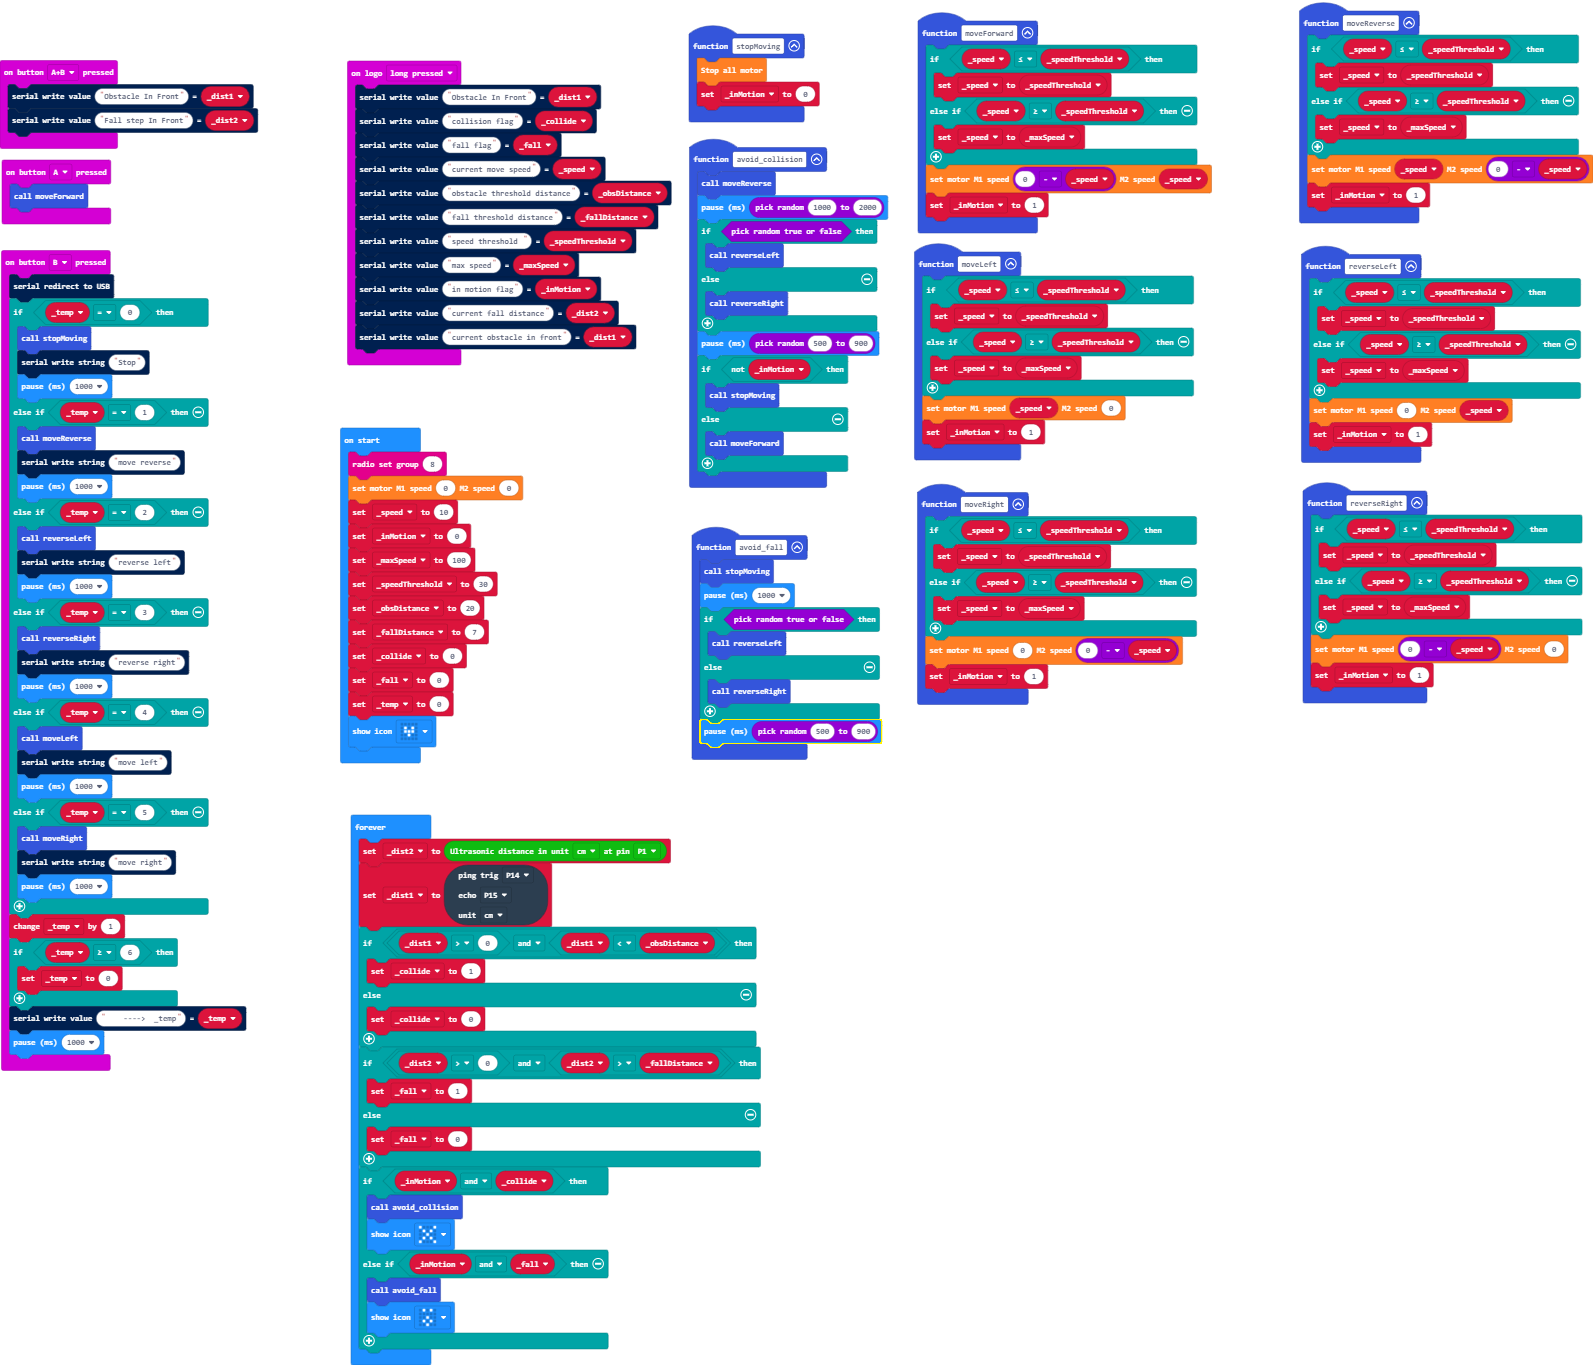
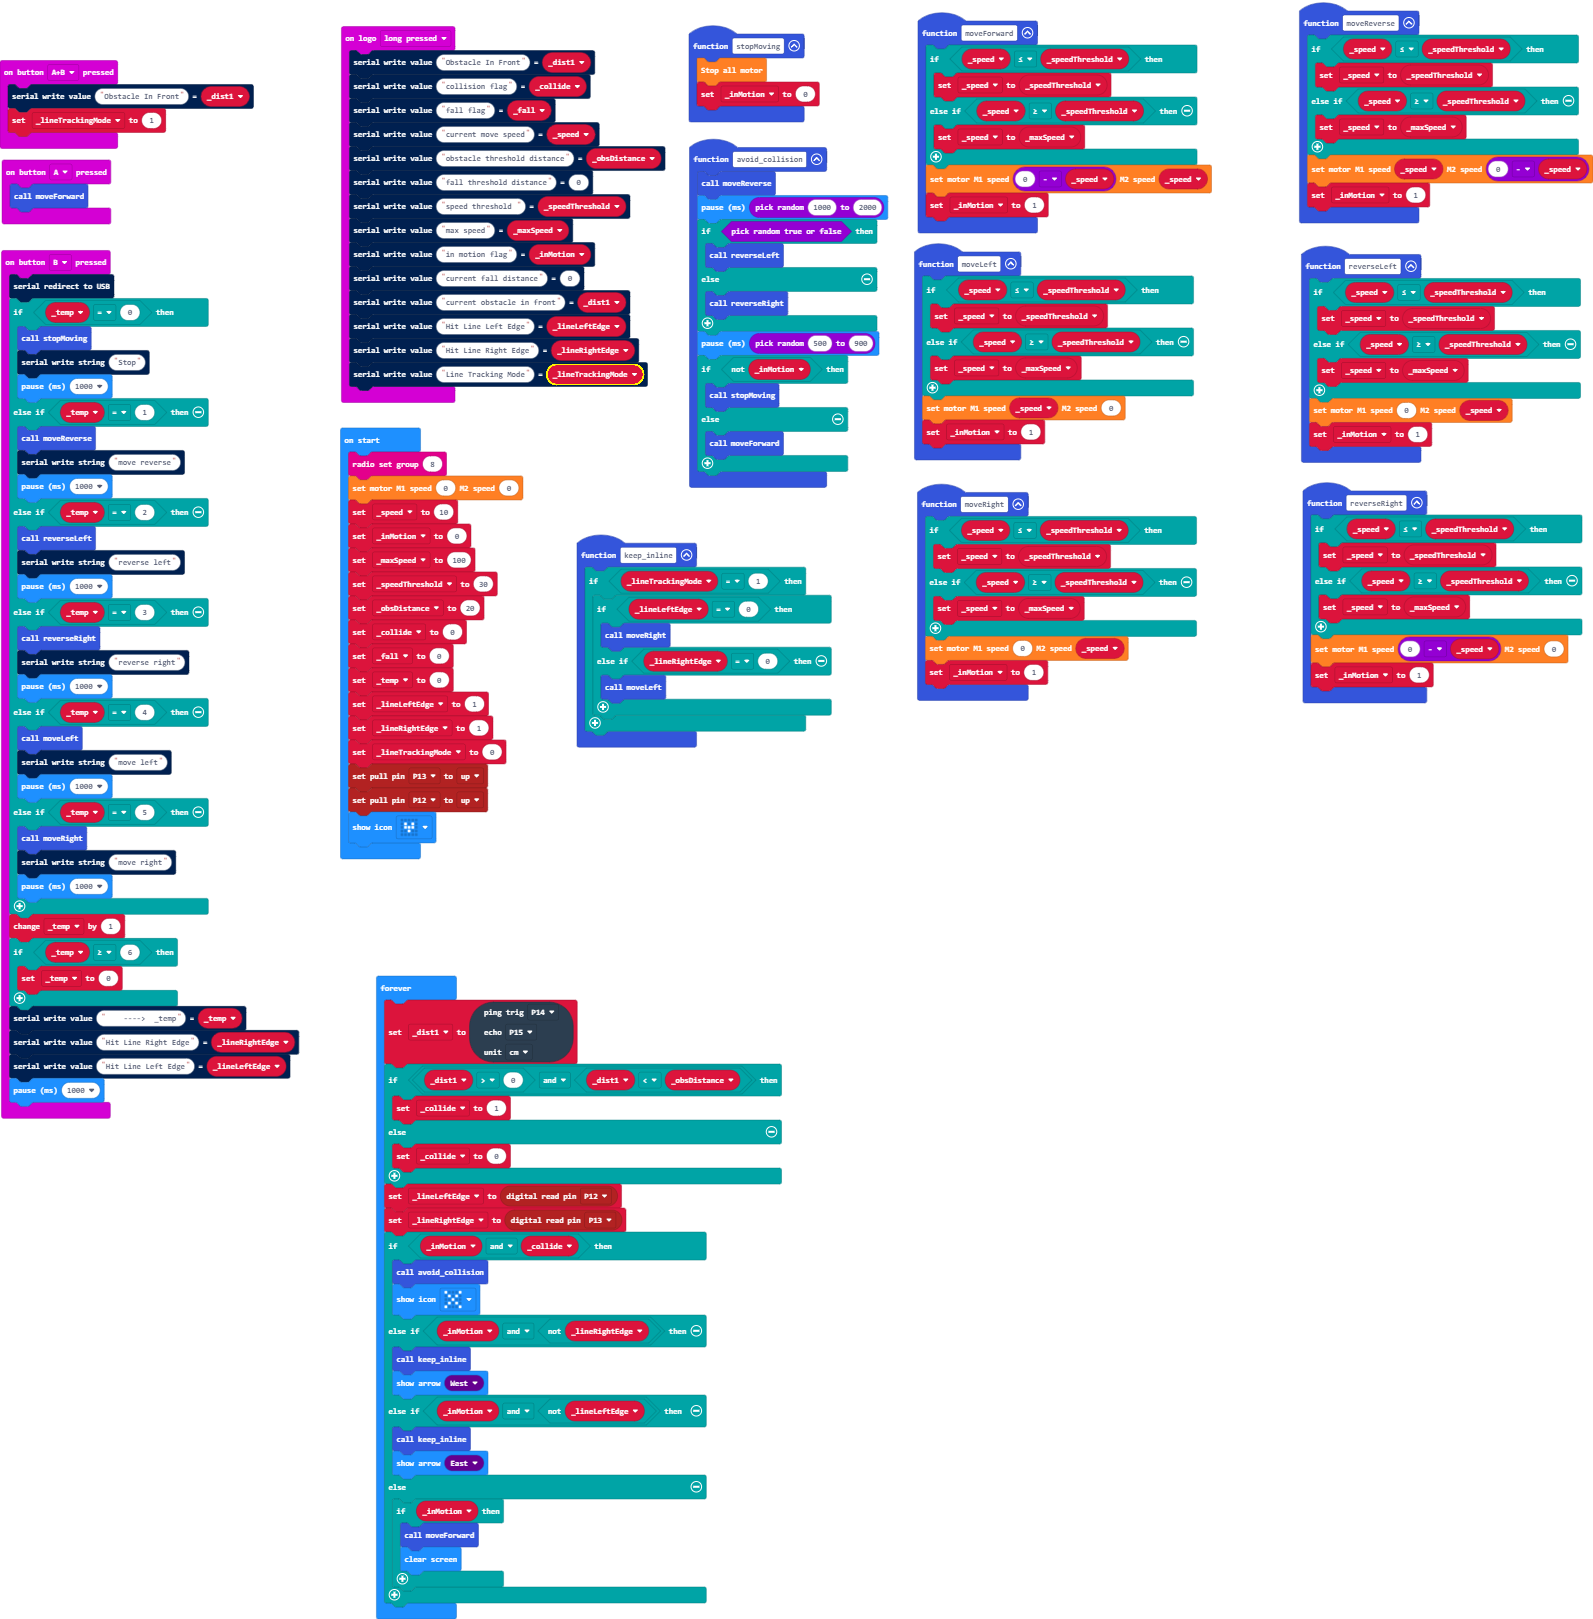
Update main.blocks, main.ts

diff --git a/main.ts b/main.ts
@@ -13,7 +13,7 @@ function moveRight () {
     } else if (_speed >= _speedThreshold) {
         _speed = _maxSpeed
     }
-    wuKong.setAllMotor(0, 0 - _speed)
+    wuKong.setAllMotor(0, _speed)
     _inMotion = 1
 }
 function moveForward () {
@@ -46,12 +46,15 @@ input.onLogoEvent(TouchButtonEvent.LongPressed, function () {
     serial.writeValue("fall flag", _fall)
     serial.writeValue("current move speed", _speed)
     serial.writeValue("obstacle threshold distance", _obsDistance)
-    serial.writeValue("fall threshold distance", _fallDistance)
+    serial.writeValue("fall threshold distance", 0)
     serial.writeValue("speed threshold ", _speedThreshold)
     serial.writeValue("max speed", _maxSpeed)
     serial.writeValue("in motion flag", _inMotion)
-    serial.writeValue("current fall distance", _dist2)
+    serial.writeValue("current fall distance", 0)
     serial.writeValue("current obstacle in front", _dist1)
+    serial.writeValue("Hit Line Left Edge", _lineLeftEdge)
+    serial.writeValue("Hit Line Right Edge", _lineRightEdge)
+    serial.writeValue("Line Tracking Mode", _lineTrackingMode)
 })
 input.onButtonPressed(Button.A, function () {
     moveForward()
@@ -71,7 +74,7 @@ function reverseLeft () {
 }
 input.onButtonPressed(Button.AB, function () {
     serial.writeValue("Obstacle In Front", _dist1)
-    serial.writeValue("Fall step In Front", _dist2)
+    _lineTrackingMode = 1
 })
 input.onButtonPressed(Button.B, function () {
     serial.redirectToUSB()
@@ -105,6 +108,8 @@ input.onButtonPressed(Button.B, function () {
         _temp = 0
     }
     serial.writeValue("    ---->  _temp", _temp)
+    serial.writeValue("Hit Line Right Edge", _lineRightEdge)
+    serial.writeValue("Hit Line Left Edge", _lineLeftEdge)
     basic.pause(1000)
 })
 function reverseRight () {
@@ -125,22 +130,22 @@ function moveLeft () {
     wuKong.setAllMotor(_speed, 0)
     _inMotion = 1
 }
-function avoid_fall () {
-    stopMoving()
-    basic.pause(1000)
-    if (Math.randomBoolean()) {
-        reverseLeft()
-    } else {
-        reverseRight()
+function keep_inline () {
+    if (_lineTrackingMode == 1) {
+        if (_lineLeftEdge == 0) {
+            moveRight()
+        } else if (_lineRightEdge == 0) {
+            moveLeft()
+        }
     }
-    basic.pause(randint(500, 900))
 }
-let _dist2 = 0
 let _dist1 = 0
+let _lineTrackingMode = 0
+let _lineRightEdge = 0
+let _lineLeftEdge = 0
 let _temp = 0
 let _fall = 0
 let _collide = 0
-let _fallDistance = 0
 let _obsDistance = 0
 let _speedThreshold = 0
 let _maxSpeed = 0
@@ -153,13 +158,16 @@ _inMotion = 0
 _maxSpeed = 100
 _speedThreshold = 30
 _obsDistance = 20
-_fallDistance = 7
 _collide = 0
 _fall = 0
 _temp = 0
+_lineLeftEdge = 1
+_lineRightEdge = 1
+_lineTrackingMode = 0
+pins.setPull(DigitalPin.P13, PinPullMode.PullUp)
+pins.setPull(DigitalPin.P12, PinPullMode.PullUp)
 basic.showIcon(IconNames.SmallHeart)
 basic.forever(function () {
-    _dist2 = sonarbit.sonarbit_distance(Distance_Unit.Distance_Unit_cm, DigitalPin.P1)
     _dist1 = sonar.ping(
     DigitalPin.P14,
     DigitalPin.P15,
@@ -170,16 +178,21 @@ basic.forever(function () {
     } else {
         _collide = 0
     }
-    if (_dist2 > 0 && _dist2 > _fallDistance) {
-        _fall = 1
-    } else {
-        _fall = 0
-    }
+    _lineLeftEdge = pins.digitalReadPin(DigitalPin.P12)
+    _lineRightEdge = pins.digitalReadPin(DigitalPin.P13)
     if (_inMotion && _collide) {
         avoid_collision()
         basic.showIcon(IconNames.No)
-    } else if (_inMotion && _fall) {
-        avoid_fall()
-        basic.showIcon(IconNames.Surprised)
+    } else if (_inMotion && !(_lineRightEdge)) {
+        keep_inline()
+        basic.showArrow(ArrowNames.West)
+    } else if (_inMotion && !(_lineLeftEdge)) {
+        keep_inline()
+        basic.showArrow(ArrowNames.East)
+    } else {
+        if (_inMotion) {
+            moveForward()
+            basic.clearScreen()
+        }
     }
 })
